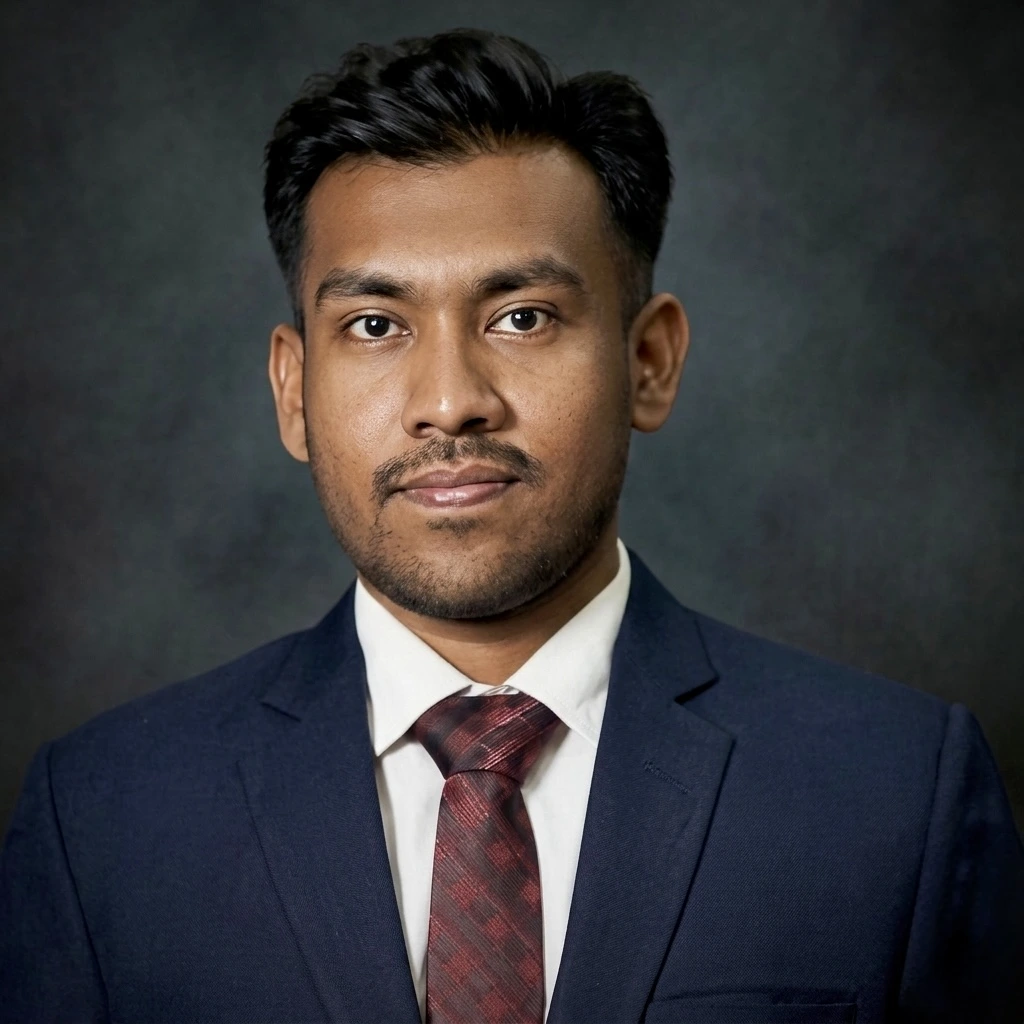
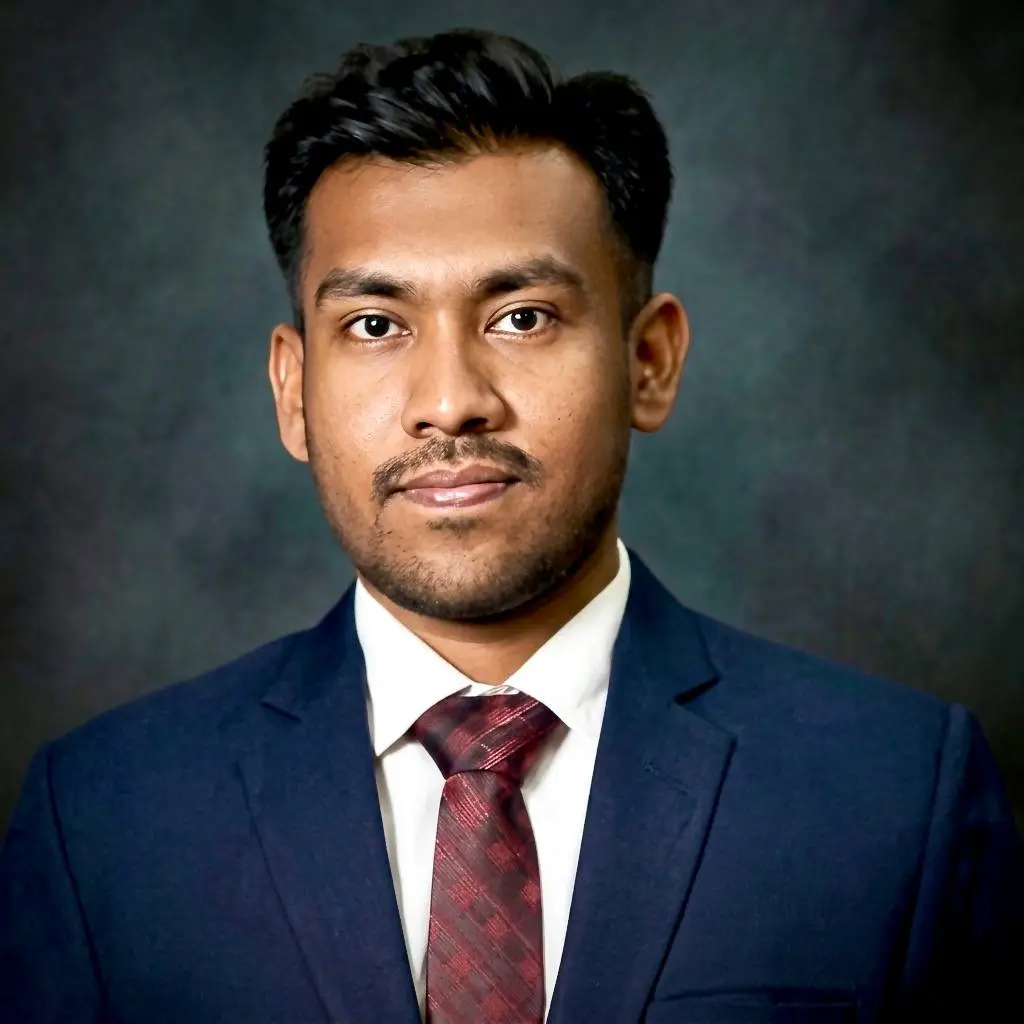
Updated some info

Changed region(s): [[0.25, 0.125, 0.625, 1.0], [0.625, 0.2812, 0.6875, 0.4375]]

diff --git a/index.html b/index.html
@@ -423,7 +423,7 @@
 <header id="header">
   <div class="container d-flex">
     <div class="logo-img">
-      <a href="index.html"><img loading="eager" decoding="async" src="assets/img/IMG_4950.webp" alt="Monirul Islam Mahmud profile photo" class="img-fluid"></a>
+      <a href="index.html"><img loading="eager" decoding="async" src="assets/img/IMG_4954.webp" alt="Monirul Islam Mahmud profile photo" class="img-fluid"></a>
     </div>
     <div class="logo d-flex align-items-center justify-content-between">
       <h1 class="text-light">
